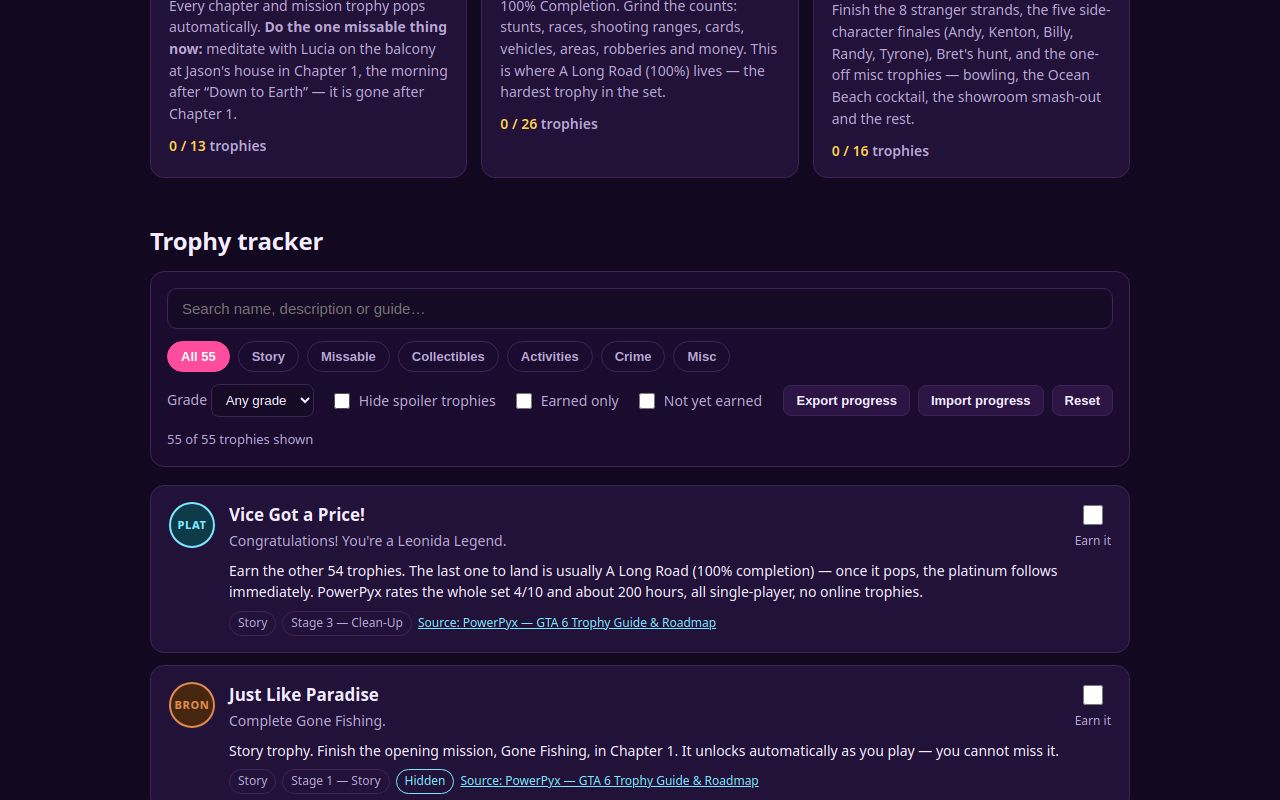
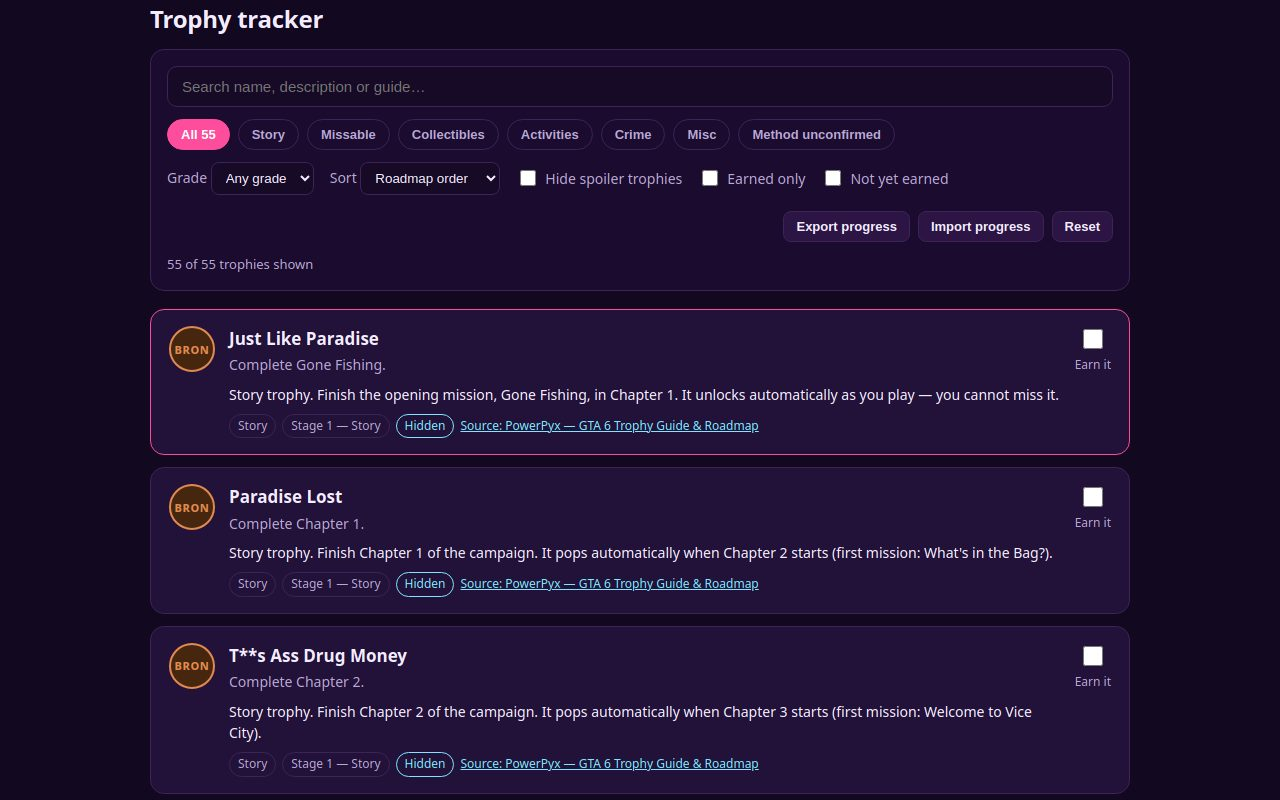
Round 3: confirm 3 launch-day trophies, fix methods post-launch, add next-up/sort/unconfirmed filter
- #44 In The Beginning, #45 Capital Offense, #50 The Truth Is Out There
  now have confirmed step-by-step methods (PowerPyx, post-launch)
- #49 Bad Luck, I Guess and #51 Ten Pin still unconfirmed, with the
  best lead each guide offers; marked confirmed:false in the data
- Rewrote/expanded methods for 30+ trophies from the released game:
  story unlock points, side-chain quest lists, 100% thresholds
  (200/277 vehicles, 100/255 animals, 100 optional missions),
  stunt/race/shooting-range counts, robbery prerequisites
  (Snap Gun, Key Cloner, Dye Pack Jammer), garage costs, Moses
  vehicle registration, and more; dropped the unverified
  '52 areas' claim for The Goodtime State (unfog the map instead)
- App: Next-up panel (spoiler-safe), sort by roadmap/name/grade,
  'Method unconfirmed' filter + tag, refreshed screenshots

diff --git a/app/app.js b/app/app.js
@@ -6,10 +6,14 @@ const listEl = document.getElementById("trophyList");
 const emptyEl = document.getElementById("emptyState");
 const searchInput = document.getElementById("searchInput");
 const gradeFilter = document.getElementById("gradeFilter");
+const sortSelect = document.getElementById("sortSelect");
 const spoilerToggle = document.getElementById("spoilerToggle");
 const earnedOnlyToggle = document.getElementById("earnedOnlyToggle");
 const remainingOnlyToggle = document.getElementById("remainingOnlyToggle");
 const resultsLine = document.getElementById("resultsLine");
+const nextUpEl = document.getElementById("nextUp");
+const nextUpBody = document.getElementById("nextUpBody");
+const nextUpBtn = document.getElementById("nextUpBtn");
 const progressFill = document.getElementById("progressFill");
 const earnedCountEl = document.getElementById("earnedCount");
 const progressPctEl = document.getElementById("progressPct");
@@ -56,6 +60,7 @@ function tagRow(t) {
   row.appendChild(el("span", "tag", t.kind));
   row.appendChild(el("span", "tag", STAGE_LABEL[t.stage]));
   if (t.missable) row.appendChild(el("span", "tag missable", "Missable"));
+  if (t.confirmed === false) row.appendChild(el("span", "tag unconfirmed", "Method unconfirmed"));
   if (t.hidden) row.appendChild(el("span", "tag hidden-tag", "Hidden"));
   const src = el("a", "source-link", "Source: " + t.source_name);
   src.href = t.source_url;
@@ -131,12 +136,15 @@ function openDetail(t) {
   dialog.showModal();
 }
 
+const GRADE_ORDER = { platinum: 0, gold: 1, silver: 2, bronze: 3 };
+
 function visibleTrophies() {
   const q = searchInput.value.trim().toLowerCase();
   const grade = gradeFilter.value;
-  return trophies.filter((t) => {
+  const shown = trophies.filter((t) => {
     if (activeKind === "missable" && !t.missable) return false;
-    if (activeKind !== "all" && activeKind !== "missable" && t.kind !== activeKind) return false;
+    if (activeKind === "unconfirmed" && t.confirmed !== false) return false;
+    if (activeKind !== "all" && activeKind !== "missable" && activeKind !== "unconfirmed" && t.kind !== activeKind) return false;
     if (grade !== "all" && t.grade !== grade) return false;
     if (earnedOnlyToggle.checked && !earned.has(t.id)) return false;
     if (remainingOnlyToggle.checked && earned.has(t.id)) return false;
@@ -146,6 +154,40 @@ function visibleTrophies() {
     }
     return true;
   });
+  const sort = sortSelect.value;
+  if (sort === "name") shown.sort((a, b) => a.name.localeCompare(b.name));
+  else if (sort === "grade") shown.sort((a, b) => (GRADE_ORDER[a.grade] - GRADE_ORDER[b.grade]) || (a.stage - b.stage) || (a.id - b.id));
+  else shown.sort((a, b) => (a.stage - b.stage) || (a.id - b.id));
+  return shown;
+}
+
+let nextTrophy = null;
+
+function renderNextUp() {
+  if (!trophies.length) { nextUpEl.hidden = true; return; }
+  const remaining = trophies.filter((t) => !earned.has(t.id));
+  if (!remaining.length) {
+    nextUpEl.hidden = false;
+    nextUpBody.textContent = "All 55 trophies earned — Vice Got a Price! is yours. Leonida Legend.";
+    nextUpBtn.hidden = true;
+    nextTrophy = null;
+    return;
+  }
+  remaining.sort((a, b) => (a.stage - b.stage) || (a.id - b.id));
+  nextTrophy = remaining[0];
+  nextUpEl.hidden = false;
+  nextUpBody.textContent = "";
+  if (nextTrophy.hidden && spoilerToggle.checked) {
+    // Spoiler mode: never print a hidden trophy's name or guide in the panel.
+    nextUpBtn.hidden = true;
+    nextUpBody.textContent = "Next up is a hidden story trophy in " + STAGE_LABEL[nextTrophy.stage] + ". It pops automatically as you play the campaign — tick it off when it does, and the guide will be revealed.";
+    return;
+  }
+  nextUpBtn.hidden = false;
+  const strong = el("strong", null, nextTrophy.name);
+  nextUpBody.appendChild(strong);
+  nextUpBody.appendChild(document.createTextNode(" — " + STAGE_LABEL[nextTrophy.stage] + ". " + nextTrophy.description + " "));
+  nextUpBody.appendChild(el("span", "next-up-guide", nextTrophy.guide));
 }
 
 function render() {
@@ -173,6 +215,7 @@ function render() {
     const span = document.querySelector('[data-stage-count="' + stage + '"]');
     if (span) span.textContent = got + " / " + total;
   });
+  renderNextUp();
 }
 
 function exportProgress() {
@@ -222,6 +265,10 @@ document.querySelectorAll(".chip").forEach((chip) => {
 
 searchInput.addEventListener("input", render);
 gradeFilter.addEventListener("change", render);
+sortSelect.addEventListener("change", render);
+nextUpBtn.addEventListener("click", () => {
+  if (nextTrophy) openDetail(nextTrophy);
+});
 spoilerToggle.addEventListener("change", render);
 earnedOnlyToggle.addEventListener("change", render);
 remainingOnlyToggle.addEventListener("change", render);

diff --git a/app/index.html b/app/index.html
@@ -42,6 +42,12 @@
     </ol>
   </section>
 
+  <section class="next-up" aria-labelledby="nextup-title" id="nextUp" hidden>
+    <h2 id="nextup-title">Next up</h2>
+    <p class="next-up-body" id="nextUpBody"></p>
+    <button id="nextUpBtn" type="button">Open this trophy</button>
+  </section>
+
   <section class="tracker" aria-labelledby="tracker-title">
     <h2 id="tracker-title">Trophy tracker</h2>
 
@@ -58,6 +64,7 @@
         <button class="chip" data-kind="activity" type="button">Activities</button>
         <button class="chip" data-kind="crime" type="button">Crime</button>
         <button class="chip" data-kind="misc" type="button">Misc</button>
+        <button class="chip" data-kind="unconfirmed" type="button">Method unconfirmed</button>
       </div>
       <div class="control-row">
         <label>Grade
@@ -67,6 +74,13 @@
             <option value="gold">Gold</option>
             <option value="silver">Silver</option>
             <option value="bronze">Bronze</option>
+          </select>
+        </label>
+        <label>Sort
+          <select id="sortSelect">
+            <option value="roadmap">Roadmap order</option>
+            <option value="name">Name A–Z</option>
+            <option value="grade">Grade (Plat first)</option>
           </select>
         </label>
         <label class="toggle"><input type="checkbox" id="spoilerToggle" checked> Hide spoiler trophies</label>
@@ -94,7 +108,7 @@
       <li>100% completion thresholds and counts: <a href="https://www.pushsquare.com/guides/gta-6-trophy-guide-and-roadmap">Push Square — GTA 6 Trophy Guide &amp; Roadmap</a>.</li>
       <li>Personal Best (Strength): <a href="https://www.u7buy.com/blog/gta-6-trophies/">U7BUY — GTA 6 Trophy List</a>. Actions Speak Louder (500 profile actions): <a href="https://gta-zone.com/news/gta-6-trophies-achievements/">GTA Zone — GTA 6 Trophies &amp; Achievements</a>.</li>
     </ul>
-    <p>Five trophies have no confirmed method anywhere at launch — In The Beginning…, Capital Offense, Bad Luck, I Guess, The Truth Is Out There and Ten Pin. Their guides say so plainly instead of inventing a location or a step. The game released 19 Nov 2026; expect those methods to be confirmed by the guides above within days.</p>
+    <p>Two trophies still have no confirmed method anywhere — Bad Luck, I Guess (PowerPyx: believed to be related to the Payday Loans store from the Prologue) and Ten Pin (PowerPyx: believed to be from kicking people while driving a motorcycle). Their guides say so plainly instead of inventing a location or a step, and the tracker has a “Method unconfirmed” filter for them. Three more were confirmed within a day of the 19 Nov 2026 launch — In The Beginning… (Ocean View Rooftop Bar, Apple Martini), Capital Offense (the blue Banshee showroom smash-out) and The Truth Is Out There (the Kelly County UFO encounter) — and this guide was updated with the confirmed methods.</p>
     <p class="disclaimer">Unofficial fan guide. Not affiliated with Rockstar Games, Take-Two Interactive or Sony Interactive Entertainment. Grand Theft Auto, GTA and Vice City are trademarks of their owners. No official artwork, logos or game screenshots are used here.</p>
   </section>
 </main>

diff --git a/app/style.css b/app/style.css
@@ -116,6 +116,30 @@ h3 { font-size: 17px; margin: 0 0 6px; }
 .stage-count { color: var(--ink); font-weight: 600; font-size: 14px; }
 .stage-count span { color: var(--gold); }
 
+/* ---------- Next up ---------- */
+.next-up {
+  background: linear-gradient(120deg, #2a0f45, #1b0b2e);
+  border: 1px solid var(--pink);
+  border-radius: var(--radius);
+  padding: 18px 20px;
+}
+.next-up h2 { margin-bottom: 6px; }
+.next-up-body { color: var(--muted); font-size: 14px; max-width: 860px; }
+.next-up-body strong { color: var(--ink); }
+.next-up-guide { color: var(--ink); }
+.next-up button {
+  margin-top: 10px;
+  padding: 8px 14px;
+  font-size: 13px;
+  font-weight: 700;
+  color: #fff;
+  background: var(--pink);
+  border: 1px solid var(--pink);
+  border-radius: 8px;
+  cursor: pointer;
+}
+.next-up button:hover { filter: brightness(1.1); }
+
 /* ---------- Controls ---------- */
 .controls {
   background: var(--bg2);
@@ -231,6 +255,7 @@ h3 { font-size: 17px; margin: 0 0 6px; }
   text-transform: capitalize;
 }
 .tag.missable { color: #fff; background: var(--red); border-color: var(--red); font-weight: 700; }
+.tag.unconfirmed { color: var(--gold); border-color: var(--gold); font-weight: 700; }
 .tag.hidden-tag { color: var(--cyan); border-color: var(--cyan); }
 .source-link { color: var(--cyan); font-size: 12px; }
 .earned-box {

diff --git a/README.md b/README.md
@@ -8,11 +8,12 @@ The best GTA 6 trophy guide and tracker for all **55 PS5 trophies** — 1 platin
 
 ## What it does
 
-- **A guide for every trophy, in plain words** — each with a cited source beside it (PowerPyx, Push Square, Planet GTA 6, GTA Zone, U7BUY). The five trophies with no confirmed method at launch (In The Beginning…, Capital Offense, Bad Luck, I Guess, The Truth Is Out There, Ten Pin) say so honestly instead of inventing a location or a step.
+- **A guide for every trophy, in plain words** — each with a cited source beside it (PowerPyx, Push Square, Planet GTA 6, GTA Zone, U7BUY). The guide was re-verified against the released game (19 Nov 2026): three trophies that had no confirmed method at launch are now confirmed with steps — In The Beginning… (Ocean View Rooftop Bar, Apple Martini), Capital Offense (the blue Banshee showroom smash-out) and The Truth Is Out There (the Kelly County UFO encounter). The two still unconfirmed (Bad Luck, I Guess; Ten Pin) say so honestly instead of inventing a location or a step, with the best lead each guide offers.
 - **Platinum roadmap in three stages** — play the story, grind the 100% checklist, then strangers, side chains and clean-up. About 200 hours, difficulty 4/10 (PowerPyx).
 - **The one missable trophy, flagged loud** — Positive Mental Attitude: meditate with Lucia on the balcony at Jason's house in Chapter 1, the morning after “Down to Earth”. Gone after Chapter 1, and there is no mission replay.
 - **Tracker** — tick trophies off (saved in localStorage), with export/import of your progress as JSON.
-- **Filters** — story, missable, collectibles, activities, crime, misc, by grade, by search, earned only / not yet earned.
+- **Filters** — story, missable, collectibles, activities, crime, misc, method-unconfirmed, by grade, by search, earned only / not yet earned, and sort by roadmap order, name or grade.
+- **Next up** — the first trophy you have not earned yet, in roadmap order, with its guide one click away (hidden story trophies stay hidden while spoiler mode is on).
 - **Spoiler setting** — hidden (story) trophies stay hidden until you earn them, so the guide never spoils the campaign.
 
 ## Run it
